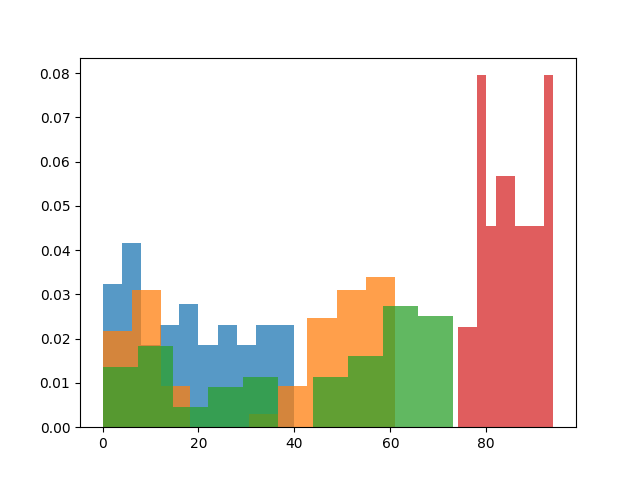
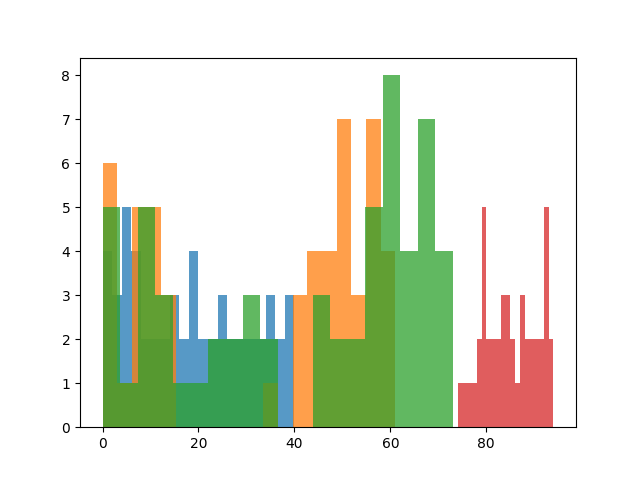
Hisotgram
Fixed the values on the histogram axis

diff --git a/statistical_analysis/main.py b/statistical_analysis/main.py
@@ -49,7 +49,7 @@ for i in range(len(names)):
   outliers[1] = array[outliersPosition, :]
 
   array = np.delete(array, outliersPosition, 0)
-  ax.hist(array[:, 0], density=True, alpha=0.75)
+  ax.hist(array[:, 0], bins=20, alpha=0.75, histtype='barstacked')
 
   headings[datasets[i]] = array[:, 0].astype('float64')
 
